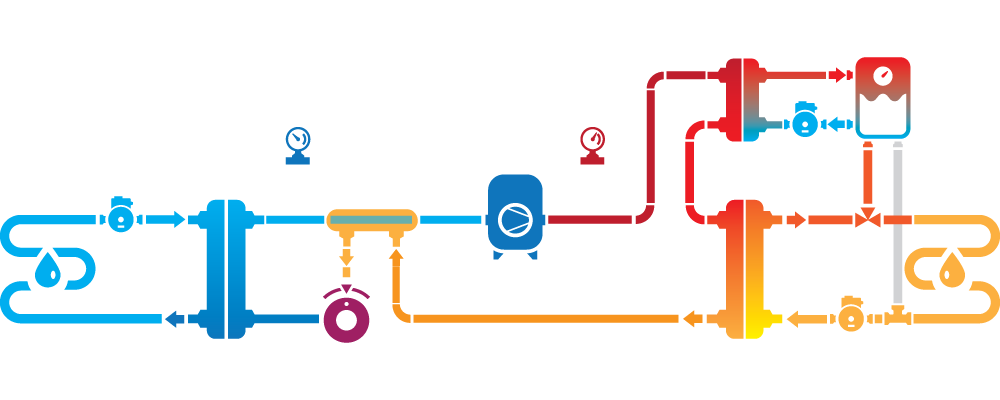
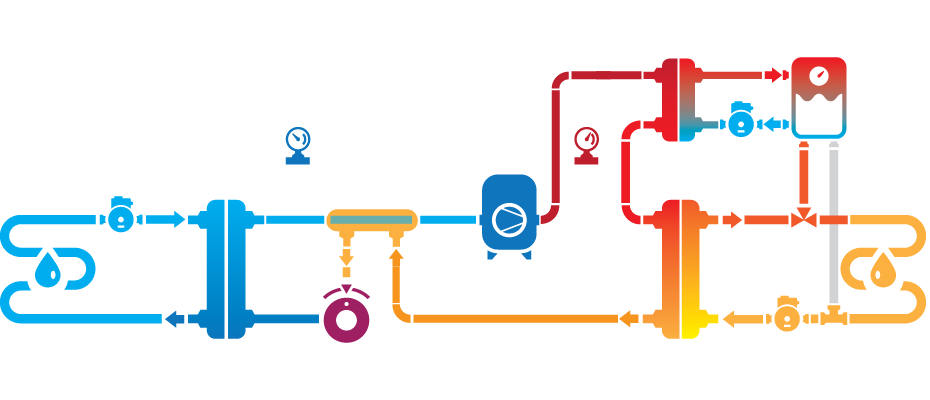
Доработка веб, перенос настроек в config, исправление багов
Вывод % открытия ЭРВ,
уменьшены по горизонтали схемы,
настройки ЭРВ и датчиков давления в config,

diff --git a/Web/style.css b/Web/style.css
@@ -106,7 +106,7 @@ body.test #get_listrelay span{display:none}
 .allcharts > div > div{height:300px; background: #ffffff;text-align:center;margin: 5px 0 10px 0;line-height: 300px;font-size:1.5em;    border: 1px solid #aaa;}
 @media screen and (max-width:1190px) { .allcharts > div{width:98%;} }
 #get_message-smtp_ip,#get_message-sms_ip{float:right;}
-.visualization{background:url("plan[HPscheme].png");height:400px;width:1000px;margin:0 auto;padding:0!important;}
+.visualization{background:url("plan[HPscheme].png");height:400px;width:930px;margin:0 auto;padding:0!important;}
 .visualization span{min-width:45px;font-size: 15px!important; font-weight: bold; position: absolute;text-align:right; background: rgba(255, 255, 255, 0.3); border:2px solid #9F1F63; border-radius:5px;padding:0 3px;}
 .visualization span.red{border-color:#BF1E2D;color:#000;}
 .visualization span.blue{border-color:#0F75BC;color:#000;}
@@ -118,17 +118,19 @@ body.test #get_listrelay span{display:none}
 .visualization #get_temp-tevaing	{margin-top: 185px;margin-left: 140px;}
 .visualization #get_temp-tevaout	{margin-top: 230px;margin-left: 265px;}
 .visualization #get_temp-trtoout	{margin-top: 185px;margin-left: 425px;}
-.visualization #get_temp-tconout	{margin-top: 335px;margin-left: 655px;}
-.visualization #get_temp-tconing	{margin-top: 335px;margin-left: 780px;}
-.visualization #get_temp-tconoutg	{margin-top: 185px;margin-left: 780px;}
+.visualization #get_temp-tconout	{margin-top: 335px;margin-left: 575px;}
+.visualization #get_temp-tconing	{margin-top: 335px;margin-left: 700px;}
+.visualization #get_temp-tconoutg	{margin-top: 185px;margin-left: 700px;}
 .visualization #get_temp-tcomp		{margin-top: 151px;margin-left: 487px;}
 .visualization #get_paramfc-power	{margin-top: 260px;margin-left: 487px;}.visualization #get_paramfc-power:after{margin-left:3px;content:"кВт";}
 .visualization #get_paramfc-fc		{margin-top: 283px;margin-left: 487px;}.visualization #get_paramfc-fc:after{content:"Гц";margin-left:3px;}
-.visualization #get_temp-tboiler	{margin-top:  30px;margin-left: 837px;}
+.visualization #get_temp-tboiler	{margin-top:  30px;margin-left: 759px;}
 .visualization #get_press-peva		{margin-top: 169px;margin-left: 259px; width: 55px;text-align: center}
 .visualization #get_press-pcon		{margin-top: 169px;margin-left: 560px; width: 57px;text-align: center}
 .visualization #get_overheateev 	{margin-top: 353px;margin-left: 370px; text-align: center; }
-.visualization #get_eev				{margin-top: 330px;margin-left: 370px; text-align: center; }.visualization #get_eev:after{content:"";}
+.visualization #get_eevpp			{margin-top: 330px;margin-left: 370px; text-align: center; }.visualization #get_eevpp:after{content:"";}
+.visualization #get_flow-floweva	{margin-top: 240px;margin-left: 100px;}.visualization #get_flow-floweva:after{margin-left:3px;content:"м³ч";}
+.visualization #get_flow-flowcon	{margin-top: 280px;margin-left: 690px;}.visualization #get_flow-flowcon:after{margin-left:3px;content:"м³ч";}
 
 .cd-accordion-menu input[type=checkbox] {	position: absolute;	opacity: 0;}
 .cd-accordion-menu label, .cd-accordion-menu a {position: relative;	display: block;}

diff --git a/Web/test.html b/Web/test.html
@@ -9,8 +9,8 @@
 		window.onload = function() {
 		urlupdate = 1000;
 		loadParam("get_listRelay");
-		loadParam("get_WORK,get_paramFC(ON_OFF),get_paramFC(ANALOG),get_nameFC,get_noteFC,get_testMode,get_presentFC,get_noteFC,get_presentEEV,get_pinEEV,get_presentRelay(RPUMPB),get_noteRelay(RPUMPB),get_pinRelay(RPUMPB),get_presentRelay(RCOMP),get_noteRelay(RCOMP),get_pinRelay(RCOMP),get_presentRelay(RPUMPI),get_noteRelay(RPUMPI),get_pinRelay(RPUMPI),get_presentRelay(RPUMPO),get_noteRelay(RPUMPO),get_pinRelay(RPUMPO),get_presentRelay(RBOILER),get_noteRelay(RBOILER),get_pinRelay(RBOILER),get_presentRelay(RHEAT),get_noteRelay(RHEAT),get_pinRelay(RHEAT),get_EEV,get_FC,get_pinRelay(RTRV),get_presentRelay(RFAN1),get_noteRelay(RFAN1),get_pinRelay(RFAN1),get_presentRelay(RFAN2),get_noteRelay(RFAN2),get_pinRelay(RFAN2),get_presentRelay(R3WAY),get_noteRelay(R3WAY),get_pinRelay(R3WAY),get_presentRelay(REVI),get_noteRelay(REVI),get_pinRelay(REVI),get_nameEEV,get_noteEEV,get_presentRelay(RTRV),get_noteRelay(RTRV)");
-		updateParam("get_paramFC(FC),get_paramFC(POWER),get_remarkTest,get_dacFC,get_EEV,get_error,get_Relay(RCOMP),get_Relay(RPUMPB),get_Relay(RTRV),get_Relay(RPUMPI),get_Relay(RPUMPO),get_Relay(RBOILER),get_Relay(RHEAT),get_Relay(RFAN1),get_Relay(RFAN2),get_Relay(R3WAY),get_Relay(REVI)"); 
+		loadParam("get_WORK,get_paramFC(ON_OFF),get_paramFC(ANALOG),get_nameFC,get_noteFC,get_testMode,get_presentFC,get_noteFC,get_presentEEV,get_pinEEV,get_presentRelay(RPUMPB),get_noteRelay(RPUMPB),get_pinRelay(RPUMPB),get_presentRelay(RCOMP),get_noteRelay(RCOMP),get_pinRelay(RCOMP),get_presentRelay(RPUMPI),get_noteRelay(RPUMPI),get_pinRelay(RPUMPI),get_presentRelay(RPUMPO),get_noteRelay(RPUMPO),get_pinRelay(RPUMPO),get_presentRelay(RBOILER),get_noteRelay(RBOILER),get_pinRelay(RBOILER),get_presentRelay(RHEAT),get_noteRelay(RHEAT),get_pinRelay(RHEAT),get_EEVpp,get_FC,get_pinRelay(RTRV),get_presentRelay(RFAN1),get_noteRelay(RFAN1),get_pinRelay(RFAN1),get_presentRelay(RFAN2),get_noteRelay(RFAN2),get_pinRelay(RFAN2),get_presentRelay(R3WAY),get_noteRelay(R3WAY),get_pinRelay(R3WAY),get_presentRelay(REVI),get_noteRelay(REVI),get_pinRelay(REVI),get_nameEEV,get_noteEEV,get_presentRelay(RTRV),get_noteRelay(RTRV)");
+		updateParam("get_paramFC(FC),get_paramFC(POWER),get_remarkTest,get_dacFC,get_EEVpp,get_error,get_Relay(RCOMP),get_Relay(RPUMPB),get_Relay(RTRV),get_Relay(RPUMPI),get_Relay(RPUMPO),get_Relay(RBOILER),get_Relay(RHEAT),get_Relay(RFAN1),get_Relay(RFAN2),get_Relay(R3WAY),get_Relay(REVI)"); 
 	};
 	</script>
 </head>
@@ -120,7 +120,7 @@
 		<tr id="get_presenteev">
 			<td id="get_nameeev">-</td>
 			<td id="get_noteeev">-</td>
-			<td id="get_eev2"></td>
+			<td id="get_eevpp2"></td>
 			<td><input id="get_eev" type="number" step="1" value="0"><input id="get_eev3" type="submit" value=">"  onclick="setParam('get_EEV');"></td>
 		</tr>
 		</tbody>

diff --git a/Web/sensorsp.html b/Web/sensorsp.html
@@ -151,14 +151,14 @@ updateParam("get_SDM(VOLTAGE_SDM),get_SDM(CURRENT_SDM),get_SDM(REPOWER_SDM),get_
     <table>
     <thead>
     <tr>
-      <th>Максимальное напряжения<sup>3</sup> [0...390] (V)</th>
-      <th>Минимальное напряжения<sup>4</sup> [0...390] (V)</th>
-      <th>Контроль мощности<sup>4</sup> [0...5000] (W)</th>      
+      <th>Максимальное напряжения<sup>3</sup> [0...400] (V)</th>
+      <th>Минимальное напряжения<sup>4</sup> [0...400] (V)</th>
+      <th>Контроль мощности<sup>4</sup> [0...10000] (W)</th>      
     </tr>
     <tr>
-    <td><input id="get_sdm-max_voltage_sdm" type="number" min="0" max="390" step="1" value=""><input type="submit" value=">"  onclick="setParam('get_SDM(MAX_VOLTAGE_SDM)');"></td>
-    <td><input id="get_sdm-min_voltage_sdm" type="number" min="0" max="390" step="1" value=""><input type="submit" value=">"  onclick="setParam('get_SDM(MIN_VOLTAGE_SDM)');"></td>
-    <td><input id="get_sdm-max_power_sdm" type="number" min="0" max="5000" step="1" value=""><input type="submit" value=">"  onclick="setParam('get_SDM(MAX_POWER_SDM)');"></td>
+    <td><input id="get_sdm-max_voltage_sdm" type="number" min="0" max="400" step="1" value=""><input type="submit" value=">"  onclick="setParam('get_SDM(MAX_VOLTAGE_SDM)');"></td>
+    <td><input id="get_sdm-min_voltage_sdm" type="number" min="0" max="400" step="1" value=""><input type="submit" value=">"  onclick="setParam('get_SDM(MIN_VOLTAGE_SDM)');"></td>
+    <td><input id="get_sdm-max_power_sdm" type="number" min="0" max="10000" step="1" value=""><input type="submit" value=">"  onclick="setParam('get_SDM(MAX_POWER_SDM)');"></td>
     </tr>  
     </thead>
     </table>

diff --git a/Web/plan.html b/Web/plan.html
@@ -7,7 +7,7 @@
 	<script type='text/javascript' src='scripts.js'></script>
 	<script type="text/javascript">
 		window.onload = function() {
-			updateParam("hide_rpumpfl,get_paramFC(FC),get_paramFC(POWER),get_EEV,get_overheatEEV,get_MODE,get_Press(PEVA),get_Press(PCON),get_Temp(TBOILER),get_Temp(TOUT),get_Temp(TEVAOUT),get_Temp(TRTOOUT),get_Temp(TEVAIN),get_Temp(TCOMP),get_Temp(TIN),get_Temp(TEVAING),get_Temp(TEVAOUTG),get_Temp(TCONING),get_Temp(TCONOUTG),get_Temp(TCONOUT),get_targetTemp(TIN),get_Temp(TBOILER),get_Relay(RPUMPI),get_Relay(RPUMPO),get_Relay(RPUMPFL)");
+			updateParam("hide_rpumpfl,get_paramFC(FC),get_paramFC(POWER),get_EEVpp,get_overheatEEV,get_MODE,get_Press(PEVA),get_Press(PCON),get_Temp(TBOILER),get_Temp(TOUT),get_Temp(TEVAOUT),get_Temp(TRTOOUT),get_Temp(TEVAIN),get_Temp(TCOMP),get_Temp(TIN),get_Temp(TEVAING),get_Temp(TEVAOUTG),get_Temp(TCONING),get_Temp(TCONOUTG),get_Temp(TCONOUT),get_targetTemp(TIN),get_Temp(TBOILER),get_Relay(RPUMPI),get_Relay(RPUMPO),get_Relay(RPUMPFL),get_Flow(FLOWEVA),get_Flow(FLOWCON)");
 	};
 	</script>	
 </head>
@@ -31,11 +31,13 @@
 		<span id="get_paramfc-fc" class="blue">-</span>
 		<span id="get_paramfc-power" class="blue">-</span>
 		<span id="get_overheateev">-.-</span>
-		<span id="get_eev">-.-</span>
+		<span id="get_eevpp">-</span>
+		<span id="get_flow-floweva" class="blue">-.-</span>
+		<span id="get_flow-flowcon" class="orange">-.-</span>
 	</div>
 	<div class="row1">
 		<dl>
-			<dt>Режим работы</dt><dd><span id="get_mode">-</span></dd>
+			<dt>Режим работы</dt><dd><span id="get_mode2">-</span></dd>
 			<dt>На улице</dt><dd><span id="get_temp-tout">-</span> &deg;C</dd>
 			<dt>В доме</dt><dd><span id="get_temp-tin">-</span> &deg;C</dd>
 

diff --git a/Web/eev.html b/Web/eev.html
@@ -11,7 +11,7 @@
   <script type="text/javascript">
     window.onload = function() {
     loadParam("get_optionHP(TIME_CHART),get_freonEEV,get_ruleEEV,get_paramEEV(TIME_IN),get_paramEEV(T_OWERHEAT),get_paramEEV(K_PRO),get_paramEEV(K_IN),get_paramEEV(K_DIF),get_paramEEV(M_STEP),get_paramEEV(CORRECTION),get_presentEEV,get_nameEEV,get_noteEEV,get_maxEEV,get_minEEV,get_pinEEV");
-    updateParam("get_remarkEEV,get_EEV,get_overheatEEV,get_errcodeEEV");
+    updateParam("get_remarkEEV,get_EEVpp,get_overheatEEV,get_errcodeEEV");
      loadParam("get_Chart(_posEEV)");
     setParam('get_listChart','chart1');
     
@@ -59,7 +59,7 @@
       <td id="get_noteeev"></td>
       <td id="get_maxeev"></td>
       <td id="get_mineev"></td>
-      <td id="get_eev"></td>
+      <td id="get_eevpp"></td>
       <td id="get_overheateev"></td>
       <td id="get_errcodeeev"></td>
       <td id="get_pineev"></td>

diff --git a/Web/scripts.js b/Web/scripts.js
@@ -1,4 +1,4 @@
-/* ver 0.949 beta */
+/* ver 0.951 beta */
 //var urlcontrol = 'http://77.50.254.24:25402'; // адрес и порт контроллера, если адрес сервера отличен от адреса контроллера (не рекомендуется)
 //var urlcontrol = ''; //  автоопределение (если адрес сервера совпадает с адресом контроллера)
 var urlcontrol = 'http://192.168.0.199';

diff --git a/Control/Config.h b/Control/Config.h
@@ -307,7 +307,11 @@ enum TYPE_SENSOR
     * #define PEVA        0                // Датчик давления испарителя.
     * #define PCON        1                // Датчик давления нагнетания.
     */
-    // Коэффициент преобразования отсчеты АЦП-давление
+     // Описание датчиков
+     const char *notePress[] = {"Датчик давления испарителя (bar)",
+                                "Датчик давления конденсации (bar)"};
+
+   // Коэффициент преобразования отсчеты АЦП-давление
     const float TRANsADC[ANUMBER]={0.482,0.3};
     // напряжение (отсчеты АЦП) соответсвующее cZero
     const uint16_t ZEROPRESS[ANUMBER]={285,150};
@@ -677,7 +681,11 @@ enum TYPE_SENSOR
      * #define PEVA        0                // Датчик давления испарителя.
      * #define PCON        1                // Датчик давления нагнетания.
      */
-     // Коэффициент преобразования отсчеты АЦП-давление
+     // Описание датчиков
+     const char *notePress[] = {"Датчик давления испарителя (bar)",
+                                "Датчик давления конденсации (bar)"};
+
+    // Коэффициент преобразования отсчеты АЦП-давление
      const float TRANsADC[ANUMBER]={0.482,0.3};
      // напряжение (отсчеты АЦП) соответсвующее cZero
      const uint16_t ZEROPRESS[ANUMBER]={285,150};
@@ -1059,6 +1067,10 @@ enum TYPE_SENSOR
        * #define PEVA        0                // Датчик давления испарителя.
        * #define PCON        1                // Датчик давления нагнетания.
        */
+       // Описание датчиков
+       const char *notePress[] = {"Датчик давления испарителя (bar)",
+                                  "Датчик давления конденсации (bar)"};
+
        // Коэффициент преобразования отсчеты АЦП-давление
        const float TRANsADC[ANUMBER]={0.482,0.3};
        // напряжение (отсчеты АЦП) соответсвующее cZero
@@ -1435,7 +1447,11 @@ enum TYPE_SENSOR
        * #define PEVA        0                // Датчик давления испарителя.
        * #define PCON        1                // Датчик давления нагнетания.
        */
-       // Коэффициент преобразования отсчеты АЦП-давление
+       // Описание датчиков
+       const char *notePress[] = {"Датчик давления испарителя (bar)",
+                                  "Датчик давления конденсации (bar)"};
+
+      // Коэффициент преобразования отсчеты АЦП-давление
        const float TRANsADC[ANUMBER]={0.482,0.3};
        // напряжение (отсчеты АЦП) соответсвующее cZero
        const uint16_t ZEROPRESS[ANUMBER]={285,150};
@@ -1839,7 +1855,11 @@ enum TYPE_SENSOR
       * #define PEVA        0                // Датчик давления испарителя.
       * #define PCON        1                // Датчик давления нагнетания.
       */
-      // Коэффициент преобразования отсчеты АЦП-давление
+      // Описание датчиков
+      const char *notePress[] = {"Датчик давления испарителя (bar)",
+                                 "Датчик давления конденсации (bar)"};
+
+     // Коэффициент преобразования отсчеты АЦП-давление
       const float TRANsADC[ANUMBER]={0.482,0.3};
       // напряжение (отсчеты АЦП) соответсвующее cZero
       const uint16_t ZEROPRESS[ANUMBER]={285,150};
@@ -1959,8 +1979,9 @@ enum TYPE_SENSOR
     #endif
     #define USE_SCHEDULER			// Использовать расписание для управления ТН
 
-	#define I2C_EEPROM_64KB			// + Использование памяти I2C для записи журнала при коментарии используется оперативка
-	#define I2C_FRAM_MEMORY  1		// 1 - FRAM память
+//	#define I2C_EEPROM_64KB			// + Использование памяти I2C для записи журнала при коментарии используется оперативка
+	#define I2C_FRAM_MEMORY  0		// 1 - FRAM память
+//	#define I2C_FRAM_MEMORY  1		// 1 - FRAM память
 	#ifdef  I2C_EEPROM_64KB                    // В зависимости от типа чипа
 		#define I2C_ADR_EEPROM    0x50         // Адрес чипа eeprom на шине I2C
 		#define I2C_SIZE_EEPROM   512    	   // Объем чипа в килобитах
@@ -2102,8 +2123,8 @@ enum TYPE_SENSOR
  //                                         ,PIN_SENSOR_FLOWPCON     // Датчик протока по предконденсатору
                                     	   };
       // Описание датчиков
-    const char *noteFrequency[FNUMBER] = { "Датчик потока по испарителю (кубы/час)",          // Датчик потока по испарителю
-                                           "Датчик потока по кондесатору (кубы/час)"        //  Датчик потока по кондесатору
+    const char *noteFrequency[FNUMBER] = { "Датчик потока геоконтура (м³ч)",          // Датчик потока по испарителю
+                                           "Датчик потока отопления (м³ч)"        //  Датчик потока по кондесатору
  //                                       ,"Датчик протока по предконденсатору (кубы/час)" //  Датчик протока по предконденсатору
                                        	};
       // Имена датчиков
@@ -2120,7 +2141,7 @@ enum TYPE_SENSOR
    // Исполнительные устройства (реле и сухие контакты) ВНИМАТЕЛЬНО ПРОВЕРЯЕМ СООТВЕТСВИЕ ВСЕХ МАССИВОВ!!! ------------------------------------------------------------------
     #define RNUMBER                    7        // Число исполнительных устройств (всех)
      // устройства DC 24V
-    #define PIN_DEVICE_RCOMP           27 //[R_9(X1)3.3V] через R=680->4N33: 24V(6) -> DI1(8). Реле включения компрессора. P5.1=0, P5.7=1
+    #define PIN_DEVICE_RCOMP           27 //[R_9(X1)3.3V] через R=680->FOD852: 24V(6) -> DI1(8). Реле включения компрессора. P5.1=0, P5.7=1
 //    #define PIN_FC_RESET             53 //[R_7] -> DI3(10) Выход для сброса инвертора
      // устройства AC 220V
     #define PIN_DEVICE_RPUMPO          47 //[R_2] Реле включения насоса выхордного контура  (отопление и ГВС)
@@ -2317,6 +2338,10 @@ enum TYPE_SENSOR
   * #define PEVA        0                // Датчик давления испарителя.
   * #define PCON        1                // Датчик давления конденсатора.
   */
+  // Описание датчиков
+  const char *notePress[] = {"Датчик давления кипения",
+                             "Датчик давления конденсации"};
+
   // Коэффициент преобразования отсчеты АЦП-давление
   const float    TRANsADC[ANUMBER]  = {0.270, 1.36};
   // напряжение (отсчеты АЦП) соответсвующее cZero
@@ -2338,23 +2363,26 @@ enum TYPE_SENSOR
   // ------------------- EEV -----------------------------------
   // ЭРВ ТОЛЬКО ОДНА ШТУКА ВСЕГДА (не массив) ------------------
   #define EEV_DEF                     // Наличие ЭРВ в конфигурации
-  #ifdef EEV_DEF                               // ЭРВ настройки под конкретную конфигурацию
-    //#define EEV_INVERT                       // Признак инвертирования движения ЭРВ  (меняем если крутит в обратную сторону)
-    //#define EEV_INT_PID                      // использование ПИДА в целочисленной арифметике
-    #define EEV_KP_ERR        100.0          // Ошибка (в сотых градуса) при которой происходит уменьшение пропорциональной составляющей ПИД ЭРВ
-    #define EEV_SPEED         40             // Скорость шагового двигателя ЭРВ (импульсы в сек.)
-    #define EEV_QUEUE         10             // Длина очереди команд шагового двигателя ЭРВ
-    #define EEV_STEPS         480            // Число шагов ЭРВ 480
-    #define EEV_PSTART        150            // ПУСКОВАЯ позиция ЭРВ (ТО что при старте компрессора ПРИ РАСКРУТКЕ)
-    #define EEV_START         100            // СТАРТОВАЯ позиция ЭРВ после раскрутки компрессора т.е. ПОЗИЦИЯ С КОТОРОЙ НАЧИНАЕТСЯ РАБОТА проходит DELAY_START_POS сек
-    #define EEV_MIN_STEPS     10             // Минимальное число шагов открытия ЭРВ
-    #define EEV_HOLD_MOTOR    false          // Режим "удержания" шагового двигателя ЭРВ
-    #define EEV_PHASE         PHASE_8s       // ЗАДАННАЯ (можно менять) последовательность (шагов) при движении ЭРВ
+  #ifdef EEV_DEF                              // ЭРВ настройки под конкретную конфигурацию
+	#define DEFAULT_RULE_EEV   2			  // Формула по умолчанию - TEVAOUT_PEVA
+	#define DEFAULT_FREON_TYPE 3 			  // Типа фрона по умолчанию - R134A
+	#define DEFAULT_OVERHEAT   300			  // Перегрев по умолчанию (сотые градуса)
+    //#define EEV_INVERT                      // Признак инвертирования движения ЭРВ  (меняем если крутит в обратную сторону)
+    //#define EEV_INT_PID                     // использование ПИДА в целочисленной арифметике
+    #define EEV_KP_ERR         100.0          // Ошибка (в сотых градуса) при которой происходит уменьшение пропорциональной составляющей ПИД ЭРВ
+    #define EEV_SPEED          40             // Скорость шагового двигателя ЭРВ (импульсы в сек.)
+    #define EEV_QUEUE          10             // Длина очереди команд шагового двигателя ЭРВ
+    #define EEV_STEPS          480            // Число шагов ЭРВ 480
+    #define EEV_PSTART         150            // ПУСКОВАЯ позиция ЭРВ (ТО что при старте компрессора ПРИ РАСКРУТКЕ)
+    #define EEV_START          100            // СТАРТОВАЯ позиция ЭРВ после раскрутки компрессора т.е. ПОЗИЦИЯ С КОТОРОЙ НАЧИНАЕТСЯ РАБОТА проходит DELAY_START_POS сек
+    #define EEV_MIN_STEPS      10             // Минимальное число шагов открытия ЭРВ
+    #define EEV_HOLD_MOTOR     false          // Режим "удержания" шагового двигателя ЭРВ
+    #define EEV_PHASE          PHASE_8s       // ЗАДАННАЯ (можно менять) последовательность (шагов) при движении ЭРВ
     // ЭРВ Времена и задержки
-    #define DELAY_ON_PID_EEV  5             // Задержка включения EEV после включения компрессора (сек).  Точнее после выхода на рабочую позицию Общее время =DELAY_ON_PID_EEV+DELAY_START_POS
-    #define DELAY_ON3_EEV     3              // Задержка между открытием (для старта) ЭРВ и включением компрессора, для выравнивания давлений (сек). Если ЭРВ закрывлось при остановке
-    #define DELAY_START_POS   5              // Время после старта компрессора когда EEV выходит на стартовую позицию - облегчение пуска вначале ЭРВ
-    #define DELAY_OFF_EEV     3              // Задержка закрытия EEV после выключения насосов (сек). Время от команды стоп компрессора до закрытия ЭРВ = DELAY_OFF_PUMP+DELAY_OFF_EEV
+    #define DELAY_ON_PID_EEV   5             // Задержка включения EEV после включения компрессора (сек).  Точнее после выхода на рабочую позицию Общее время =DELAY_ON_PID_EEV+DELAY_START_POS
+    #define DELAY_ON3_EEV      3              // Задержка между открытием (для старта) ЭРВ и включением компрессора, для выравнивания давлений (сек). Если ЭРВ закрывлось при остановке
+    #define DELAY_START_POS    5              // Время после старта компрессора когда EEV выходит на стартовую позицию - облегчение пуска вначале ЭРВ
+    #define DELAY_OFF_EEV      3              // Задержка закрытия EEV после выключения насосов (сек). Время от команды стоп компрессора до закрытия ЭРВ = DELAY_OFF_PUMP+DELAY_OFF_EEV
   #endif
 
      // Частотный преобразователь ТОЛЬКО ОДНА ШТУКА ВСЕГДА (не массив) --------------------------------------------------------

diff --git a/Control/Constant.h b/Control/Constant.h
@@ -35,7 +35,7 @@ byte defaultMAC[] = { 0xDE, 0xA1, 0x1E, 0x01, 0x02, 0x03 };// не менять
 const uint16_t  defaultPort=80;
 
 // ОПЦИИ КОМПИЛЯЦИИ ПРОЕКТА -------------------------------------------------------
-#define VERSION         "0.950 beta"        // Версия прошивки
+#define VERSION         "0.951 beta"        // Версия прошивки
 #ifndef UART_SPEED
 #define UART_SPEED       115200             // Скорость отладочного порта
 #endif
@@ -183,6 +183,12 @@ const uint16_t  defaultPort=80;
     #define PHASE_4       0              // 4 фазы, шаг
     #define PHASE_8       1              // 8 фаз,  шаг
     #define PHASE_8s      2              // 8 фаз, полушаг основной вариант (pav2000)
+
+	#ifndef DEFAULT_RULE_EEV
+		#define DEFAULT_RULE_EEV   0			  // Формула по умолчанию
+		#define DEFAULT_FREON_TYPE 0 			  // Типа фрона по умолчанию
+		#define DEFAULT_OVERHEAT   400			  // Перегрев по умолчанию (сотые градуса)
+	#endif
 
 // ----------------------- EVI ------------------------------
 #define EVI_TEMP_CON      4000           // Температура кондесатора для включения EVI
@@ -507,7 +513,8 @@ const char *noteError[] = {"Ok",                                                
                            "Ошибка использования аналогового управления инвертором без выхода ХОД",             //-83
                            "Ошибка чтения температурного датчика (лимит попыток чтения исчерпан)",              //-84
                            "Ошибка конфигурации температурного датчика (привязка к отсутвующей шине OneWire)",  //-85
-						   "Ошибка CRC во время чтения OneWire",												//-86
+						   "Ошибка CRC чтения OneWire",															//-86
+						   "Ошибка чтения/записи OneWire",														//-87
 
                            "NULL"
                            };

diff --git a/Control/Hardware.h b/Control/Hardware.h
@@ -281,6 +281,7 @@ public:
   void set_testMode(TEST_MODE t){testMode=t;}            // Установить значение текущий режим работы
   
   __attribute__((always_inline)) inline int16_t get_EEV() {return  EEV;} // Прочитать МГНОВЕННУЮ!! позицию шагового двигателя ЭРВ двигатель может двигаться
+  int8_t  get_EEV_percent(void) { return (int32_t) EEV * 100 / maxEEV; } //  % открытия ЭРВ
   int8_t  set_EEV(int x);                                // Перейти на позицию абсолютную  возвращает код ошибки
   int8_t  set_zero();                                    // Гарантированно (шагов больше чем диапазон) закрыть ЭРВ возвращает код ошибки
   char*   get_note(){ return note;}                      // Прочитать описание ЭРВ

diff --git a/Libraries/FreeRTOS_ARM/src/mini-printf.c b/Libraries/FreeRTOS_ARM/src/mini-printf.c
@@ -202,6 +202,7 @@ unsigned int m_vsnprintf(char *buffer, unsigned int buffer_len, const char *fmt,
 		}
 	}
 end:
+	b.pbuffer = '\0';
 	return b.pbuffer - b.buffer;
 }
 
